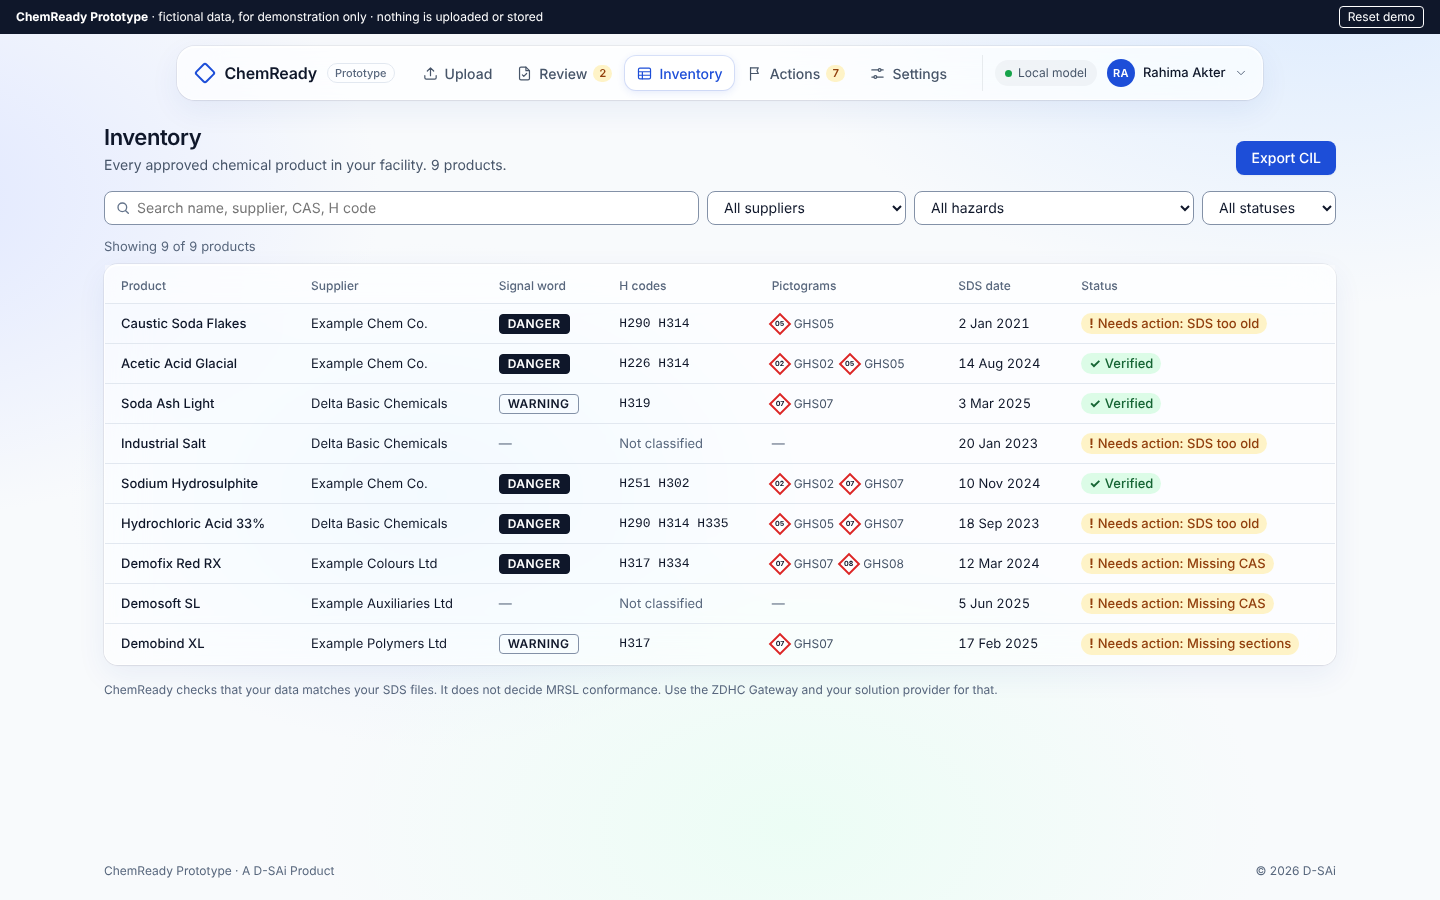
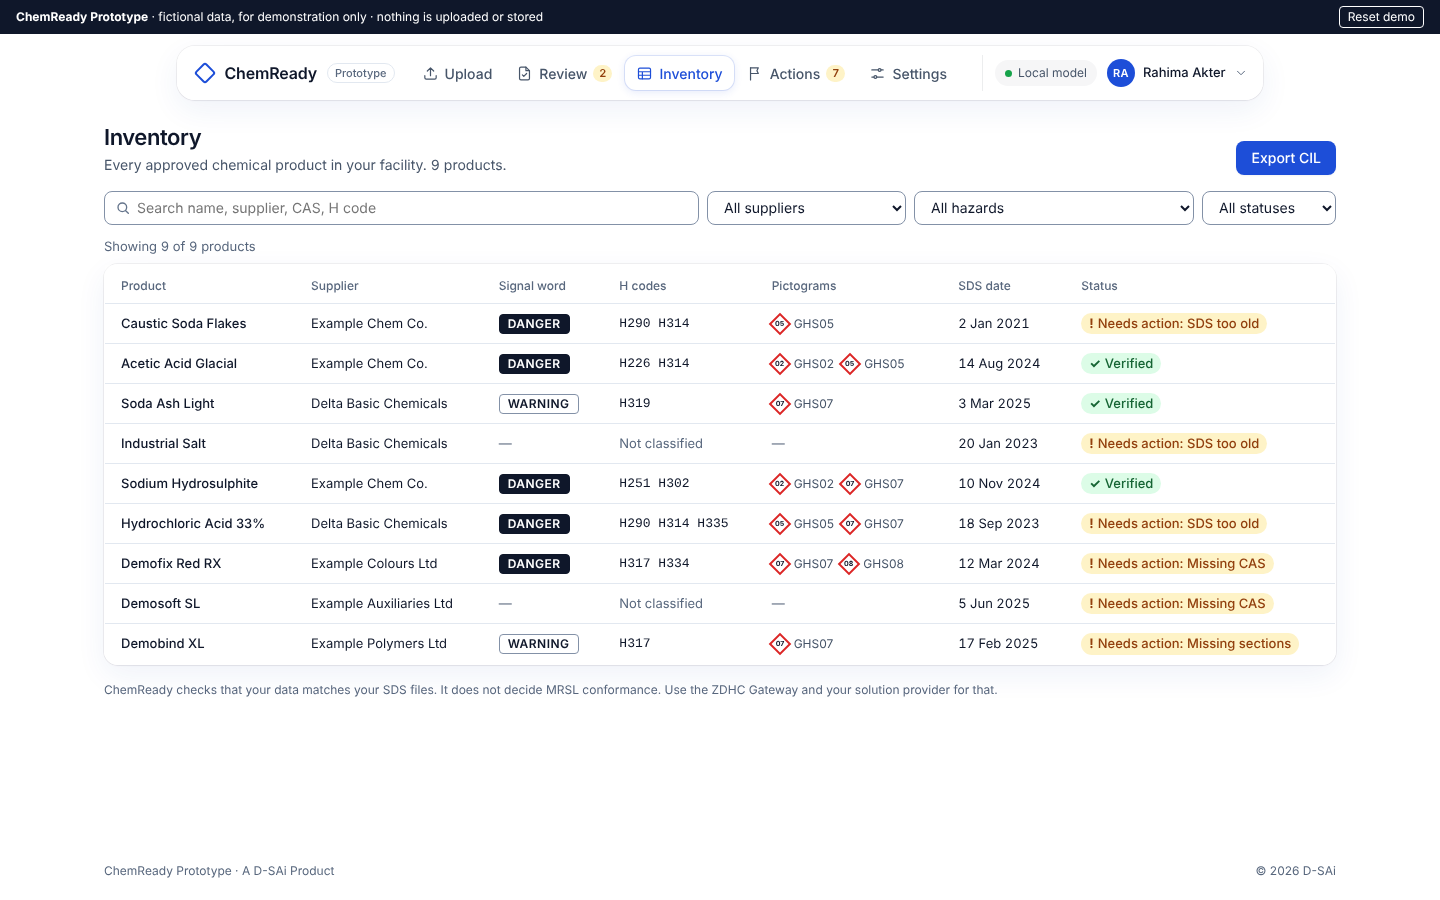
style(prototype): plain white page background

Changed region(s): [[0.7812, 0.0311, 1.0, 0.1244], [0.0, 0.1867, 0.0312, 0.28]]

diff --git a/prototype/index.html b/prototype/index.html
@@ -68,13 +68,7 @@
 html, body { height: 100%; }
 body {
   margin: 0; color: var(--color-text);
-  background:
-    radial-gradient(900px 560px at 92% -6%, var(--wash-1) 0%, transparent 64%),
-    radial-gradient(800px 520px at -8% 22%, var(--wash-2) 0%, transparent 62%),
-    radial-gradient(760px 480px at 55% 92%, var(--wash-3) 0%, transparent 62%),
-    radial-gradient(520px 360px at 30% 55%, rgba(219, 234, 254, 0.55) 0%, transparent 70%),
-    var(--color-page);
-  background-attachment: fixed;
+  background: #FFFFFF; /* plain white page, by request: no colour wash */
   font-family: var(--font-sans); font-size: var(--text-base); line-height: 1.5;
   -webkit-font-smoothing: antialiased;
 }
@@ -100,6 +94,7 @@ svg.icon { width: 18px; height: 18px; flex: none; fill: none; stroke: currentCol
 
 /* ---------- Landing ---------- */
 .landing { min-height: calc(100% - var(--banner-height)); }
+.landing:focus { outline: none; } /* focus moves here on page change for screen readers; no visible ring needed */
 .glass { background: var(--glass-card); -webkit-backdrop-filter: var(--glass-card-blur); backdrop-filter: var(--glass-card-blur); border: 1px solid var(--glass-border); box-shadow: var(--glass-highlight), var(--glass-card-shadow); }
 .l-wrap { max-width: 1120px; margin: 0 auto; padding-inline: var(--space-5); }
 .l-top-wrap { position: sticky; top: calc(var(--banner-height) + 12px); z-index: 10; padding-inline: var(--space-4); margin-top: 12px; }

diff --git a/docs/design/tokens.css b/docs/design/tokens.css
@@ -90,7 +90,8 @@
   --content-max: 1280px;  /* page content width */
 
   /* Glass: every card, the navigation pill, dialogs and the website. Cards are 58%
-     white over a soft wash; all text still passes WCAG AA (checked by script). */
+     white on a plain white page, so they read as soft white cards with a
+     border, top highlight and shadow. All text passes WCAG AA. */
   --glass-nav: rgba(255, 255, 255, 0.72);
   --glass-card: rgba(255, 255, 255, 0.58);
   --glass-menu: #FFFFFF;  /* menus inside the top bar must be solid */
@@ -99,9 +100,7 @@
   --glass-blur: saturate(180%) blur(18px);
   --glass-card-blur: saturate(180%) blur(20px);
   --glass-highlight: inset 0 1px 0 rgba(255, 255, 255, 0.9);
-  --wash-1: #DBEAFE;      /* soft background wash behind glass */
-  --wash-2: #E0E7FF;
-  --wash-3: #ECFDF5;
+  /* Page background is plain white (#FFFFFF). No colour wash. */
   --row-height: 40px;
   --min-app-width: 1280px;
 }

diff --git a/docs/design/04-navigation-and-sign-in.md b/docs/design/04-navigation-and-sign-in.md
@@ -122,3 +122,10 @@ Invite only is simpler and safer for the first 2 pilots; open sign up can follow
 - Every card is glass: 58% white, 20 px blur, a white top highlight and a soft
   blue shadow, over a gentle colour wash.
 - Muted text darkened from #64748B to #58677D so it stays above 4.5:1 on glass.
+
+## Refinement 5: plain white background
+
+The page background is plain white everywhere (website and app). The colour
+wash is removed. Cards keep their glass treatment (translucent white, blur,
+white top highlight, soft shadow); on white they read as soft, raised white
+cards.
